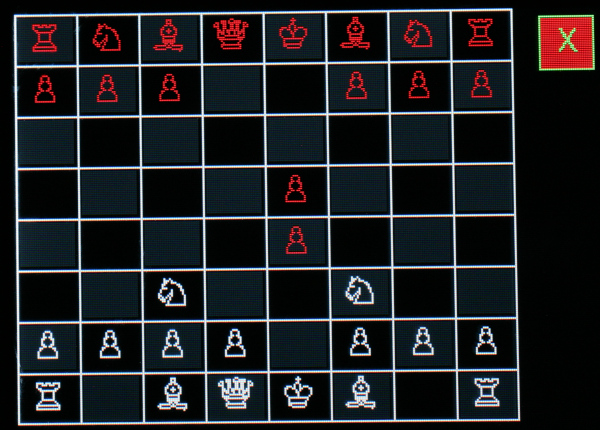
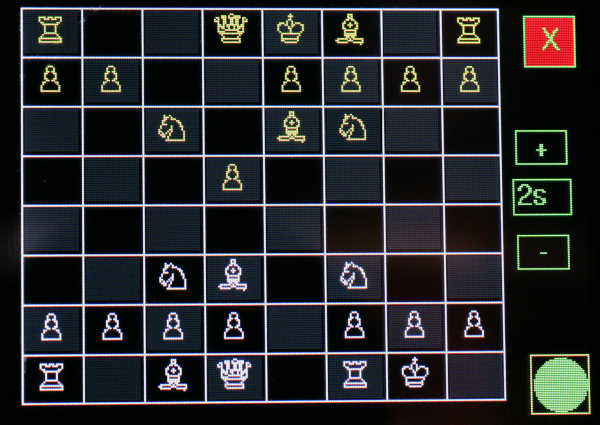
Update chess image to match code.

diff --git a/optional/chess/README.md b/optional/chess/README.md
@@ -5,6 +5,10 @@
 Depicted on a 480x320 screen. Note controls for setting the maximum machine
 "thinking" time and the tally of each side's pieces - White has lost a bishop.
 
+![Image](../../images/chess.JPG)
+
+On a 320x240 screen.
+
 # Hardware
 
 The demo is host and display agnostic, however the quantity of RAM is critical.